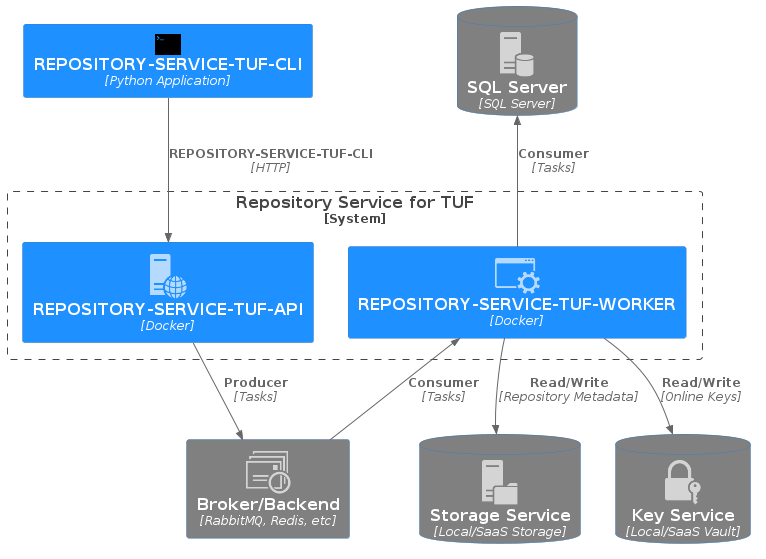
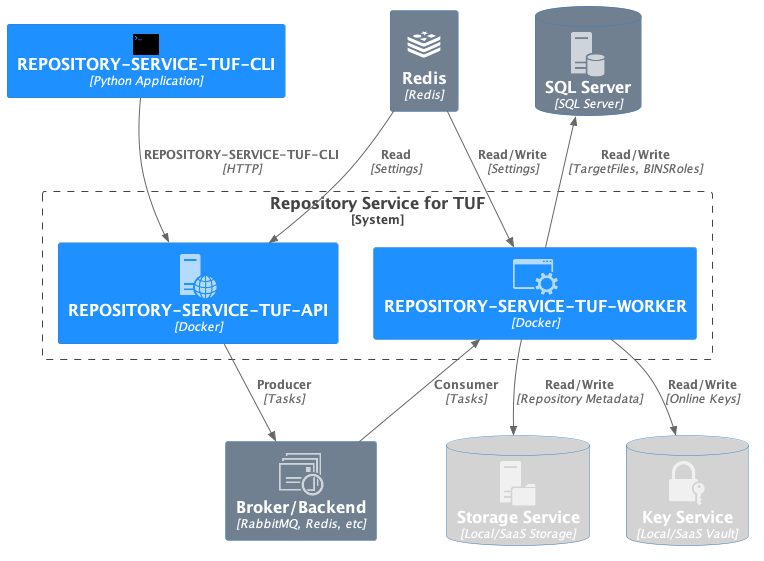
Add design details and principles
It adds to RSTUF development documentation

- More details about the RSTUF design
- Include the RSTUF design principles

diff --git a/docs/source/devel/design.rst b/docs/source/devel/design.rst
@@ -1,19 +1,214 @@
 
-The Repository Service for TUF has two main services (``rstuf-rest-api``,
-``rstuf-repo-worker``) and one tool (``rstuf-cli``)
+###################
+Architecture Design
+###################
 
-.. image:: /_static/2_2_rstuf.png
-
-By design, it helps scalability and reliability for complex and
-distributed deployment. As the example below
-
-
-.. image:: /_static/2_3_rstuf.png
+The principles
+##############
 
 
-Components/Tools
-================
+   * RSTUF uses `The Update Framework (TUF) <http://www.theupdateframework.io>`_.
 
-- `repository-service-tuf-api <https://repository-service-tuf.readthedocs.io/projects/rstuf-api/>`_
-- `repository-service-tuf-worker <https://repository-service-tuf.readthedocs.io/projects/rstuf-worker/>`_
-- `repository-service-tuf-cli <https://repository-service-tuf.readthedocs.io/projects/rstuf-cli/>`_
+     - It enables RSTUF to be artifact agnostic.
+
+   * RSTUF is easy to deploy.
+
+   * RSTUF is API first designed.
+
+     - RSTUF is language agnostic, making any language use/integrate easily.
+
+   * RSTUF is process agnostic.
+
+     - Adding/removing artifacts goes with the existing releasing/publishing
+       process.
+
+   * RSTUF focuses on scalability and Metadata consistency.
+
+   * RSTUF guides users on TUF processes.
+
+
+The architecture design principles:
+###################################
+
+The Repository Service for TUF (RSTUF) has two services
+(``repository-service-tuf-api``, ``repository-service-tuf-worker``) and one
+command line tool (``repository-service-cli``), as described in
+:ref:`guide/general/introduction:RSTUF Components`.
+
+.. note::
+    Other services can be added as optional or required
+
+RSTUF also requires some third-party services described in
+:ref:`guide/deployment/planning/deployment:Required Infrastructure Services`.
+
+.. image:: /_static/2_1_rstuf.png
+
+The below definitions allow RSTUF API and RSTUF Worker scalability.
+
+RSTUF is Asynchronous
+=====================
+
+    * Every API request is a task.
+    * RSTUF centralizes all tasks in the Message :ref:`devel/design:Message Queue`.
+    * RSTUF stores all task results in the :ref:`devel/design:Backend Result`.
+    * :ref:`devel/design:Repository Service TUF API` **publishes** RSTUF tasks.
+    * :ref:`devel/design:Repository Service TUF Worker` **consumes** RSTUF tasks.
+
+RSTUF Repository Settings/Configuration
+=======================================
+
+    * :ref:`guide/general/introduction:RSTUF Components` are RSTUF
+      **stateless** about the Repository Settings, relying on
+      :ref:`devel/design:RSTUF settings`.
+
+    * :ref:`devel/design:RSTUF settings` stores in
+      :ref:`devel/design:Redis` using `Dynaconf <https://www.dynaconf.com>`_.
+
+    * :ref:`devel/design:Repository Service TUF Worker` **writes** settings
+    * :ref:`devel/design:Repository Service TUF API` **reads** settings.
+
+        .. note::
+          A unique exception is when a bootstrap process fails and the API
+          **writes** it back to ``None``.
+
+    .. list-table:: RSTUF reserved settings/configuration
+        :header-rows: 1
+        :widths: 30 30 40
+
+        * - Key
+          - Value(s)
+          - Description
+        * - ``BOOTSTRAP``
+          - | ``None``
+            | ``<task id>``
+            | ``pre-<task id>``
+            | ``sign-<task id>``
+          - | RSTUF bootstrap state
+            | ``None``: No bootstrap
+            | ``<task id>``: Finished
+            | ``pre-<task id>``: Initial process
+            | ``sign-<task id>``: Signing process
+        * - ``<ROLE NAME>_EXPIRATION``
+          - | ``int``
+            | days
+          - | Role Metadata expiration setting
+            | It uses the role name uppercase
+            | Example: ``ROOT_EXPIRATION``
+        * - ``<ROLE NAME>_NUM_KEYS``
+          - | ``int``
+            | number of keys
+          - | Role number of keys
+            | It uses the role name uppercase
+            | Example: ``ROOT_NUM_KEYS``
+        * - ``<ROLE NAME>_THRESHOLD``
+          - | ``int``
+            | keys threshold
+          - | Role threshold
+            | It uses the role name uppercase
+            | Example: ``ROOT_THRESHOLD``
+        * - ``NUMBER_OF_DELEGATED_BINS``
+          - | ``int``
+            | Number of delegated bins
+          - number of delegated hash bin roles
+        * - ``SIGNING_<ROLE NAME>``
+          - | ``None``
+            | ``<json>``
+          - | ``None``: No pending signature(s)
+            | ``json``: TUF Metadata pending signature
+            | It uses the role name uppercase
+            | Example ``SIGNING_ROOT``
+
+Target Files and Target Roles
+=============================
+
+    * The TUF top Role Targets is a role only for delegation. This role does
+      not register target files (artifacts).
+    * :ref:`devel/design:PostgreSQL` stores the artifacts (``TargetFiles``) and
+      Targets delegated roles.
+    * :ref:`devel/design:Repository Service TUF Worker` manages the
+      :ref:`devel/design:PostgreSQL` database.
+    * :ref:`devel/design:Repository Service TUF Worker` implements and manages
+      the Key Vault and Storage Services.
+
+      - Access to the Key Vault Service is restricted to
+        :ref:`devel/design:Repository Service TUF Worker`
+      - Writing the TUF Metadata in the Storage Service  is limited to
+        :ref:`devel/design:Repository Service TUF Worker`
+      - The Storage Service is the only public data
+
+RSTUF Components Design
+#######################
+
+Repository Service TUF API
+==========================
+
+* Integration (add/remove artifacts)
+* TUF metadata process (bootstrap, sign, update, etc)
+
+.. note::
+    The service can implement other features without interfering with the
+    RSTUF principles and architecture design principles.
+
+`See component development documentation
+<https://repository-service-tuf.readthedocs.io/projects/rstuf-api/en/latest/devel/>`_.
+
+
+Repository Service TUF Worker
+=============================
+
+* Manages the TUF metadata
+* Manages the Key Vault and Storage Services
+
+.. note::
+    The service can implement other features without interfering with the
+    RSTUF principles and architecture design principles.
+
+`See component development documentation
+<https://repository-service-tuf.readthedocs.io/projects/rstuf-worker/en/latest/devel/>`_.
+
+Repository Service TUF CLI
+==========================
+
+* Command Line Interface for the API
+* Guide users in the process
+
+.. note::
+    The service can implement other features without interfering with the
+    RSTUF principles and architecture design principles.
+
+`See component development documentation
+<https://repository-service-tuf.readthedocs.io/projects/rstuf-cli/en/latest/devel/>`_.
+
+
+RSTUF Infrastructure Services Design
+####################################
+
+The Infrastructure Services have key functionality on RSTUF
+
+Message Queue
+=============
+
+* It is a centralized queue
+
+Backend Result
+==============
+
+* It is a centralized backend result for tasks
+
+Redis
+=====
+
+* It is a centralized key/cache service
+* Stores :ref:`devel/design:RSTUF Repository Settings/Configuration`
+* Optional:
+
+  - Used as :ref:`devel/design:Message Queue`
+  - Used as :ref:`devel/design:Backend Result`
+
+    .. Note::
+        See :ref:`guide/deployment/planning/deployment:Required Infrastructure Services`
+
+PostgreSQL
+==========
+
+* Stores :ref:`devel/design:Target Files and Target Roles`

diff --git a/docs/source/devel/index.rst b/docs/source/devel/index.rst
@@ -9,11 +9,4 @@ Development Guide
    development
    release
    documentation
-
-Architecture Design
-===================
-
-.. toctree::
-   :maxdepth: 2
-
    design
